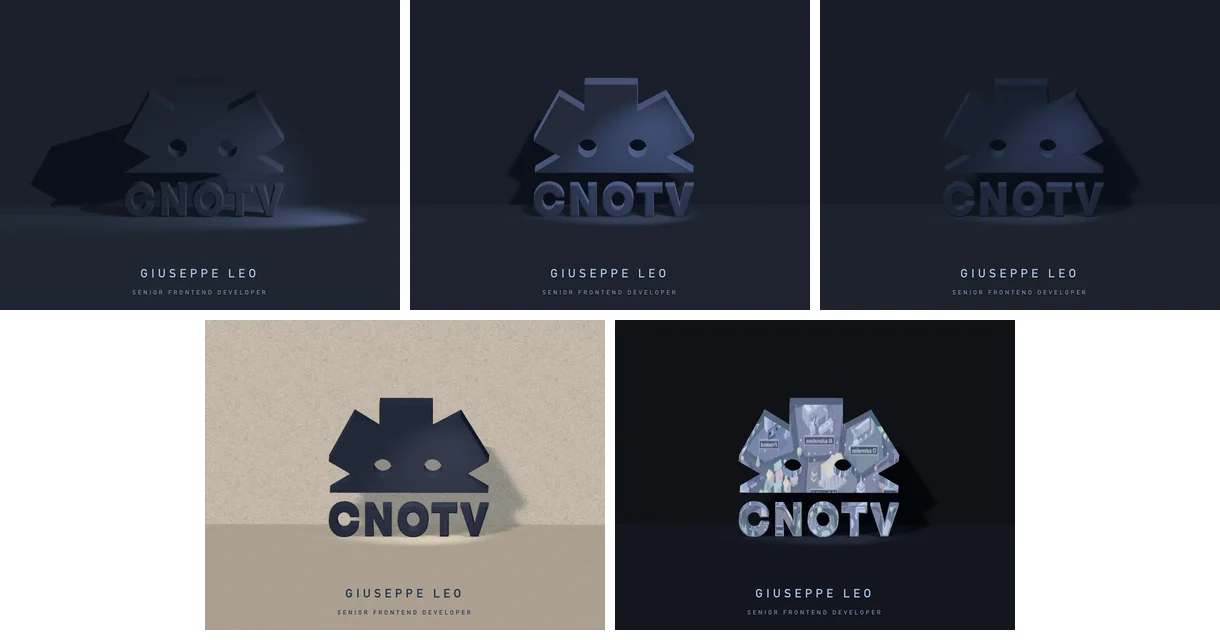
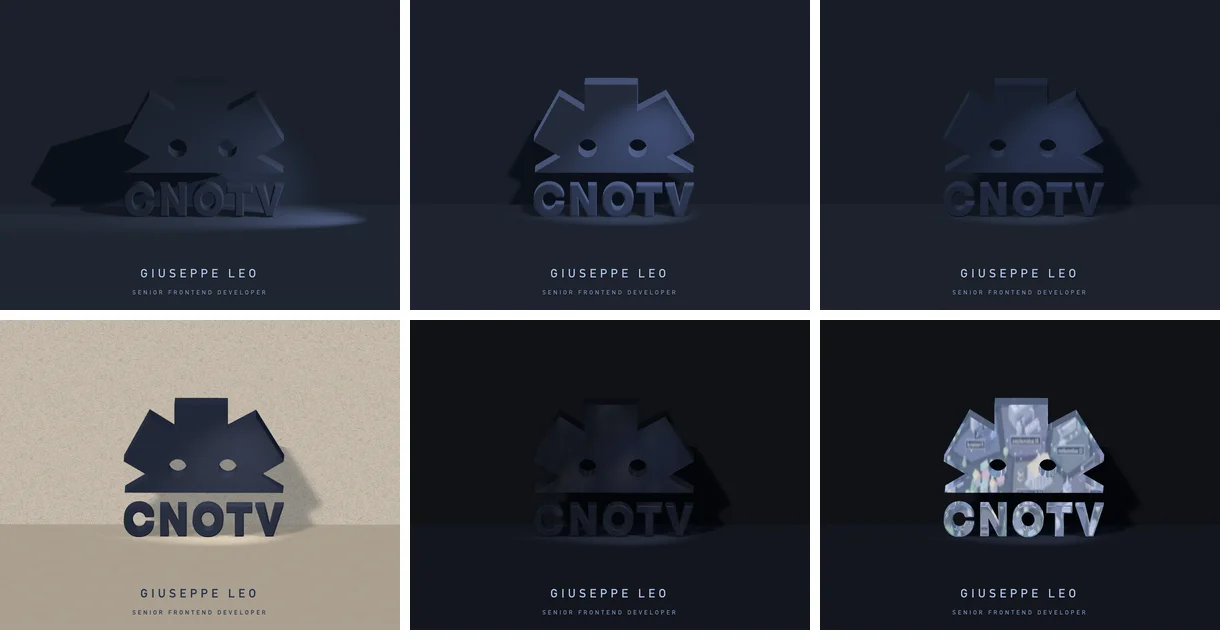
feat: tuned chrome preset, polished chrome kept, mipmap blur
Chrome takes the values tuned in the Elements panel: dark satin metal
with a faint, blurred reflection. The earlier mirror finish stays as
Polished chrome. The reflection blur now reads a smaller copy of each
frame from the video's mipmaps, smoothed with four close samples,
instead of a spiral of samples that looked grainy; the setting runs from
0 for a sharp mirror to 1 for the softest.

diff --git a/src/views/Experiments/LandingPage/introScene.ts b/src/views/Experiments/LandingPage/introScene.ts
@@ -19,7 +19,7 @@ import {
   RIM_LIGHT_POWER,
   REFLECTION_SPAN,
   REFLECTION_TILT,
-  REFLECTION_BLUR_TAPS
+  REFLECTION_BLUR_LEVELS
 } from './config'
 import type { LogoIntroPose, Room, LogoRest, SpotPlacement } from './types'
 
@@ -256,7 +256,7 @@ export interface CardShading {
   reflectionMap: THREE.IUniform<THREE.Texture | null>
   /** How far the reflection has swayed sideways, as a share of the footage. */
   reflectionShift: THREE.IUniform<number>
-  /** How far the reflection is blurred, as a share of the footage. */
+  /** How blurred the reflection is, from 0 for a sharp mirror to 1 for the softest. */
   reflectionBlur: THREE.IUniform<number>
 }
 
@@ -308,14 +308,15 @@ export const addCardShading = (material: THREE.MeshStandardMaterial): CardShadin
         // right, and shifted by its tilt so bevels and sides catch a different part of it.
         vec2 mirrorUv = vec2(0.5, 0.5) + vec2(vViewPosition.x, -vViewPosition.y) / ${REFLECTION_SPAN.toFixed(1)}
           + normal.xy * ${REFLECTION_TILT.toFixed(2)} + vec2(reflectionShift, 0.0);
-        // Blurred by averaging taps along a golden-angle spiral, spread as far as the blur asks.
-        vec3 reflected = vec3(0.0);
-        for (int tap = 0; tap < ${REFLECTION_BLUR_TAPS}; tap++) {
-          float spiral = float(tap) * 2.39996;
-          float reach = sqrt(float(tap) / ${REFLECTION_BLUR_TAPS}.0) * reflectionBlur;
-          reflected += texture2D(reflectionMap, mirrorUv + vec2(cos(spiral), sin(spiral)) * reach).rgb;
-        }
-        totalEmissiveRadiance += reflected / ${REFLECTION_BLUR_TAPS}.0 * reflectionStrength;`
+        // Blurred by reading a smaller copy of the frame from its mipmaps, smoothed with four taps
+        // half a texel of that copy apart, so it softens evenly instead of turning blocky.
+        float blurLevel = reflectionBlur * ${REFLECTION_BLUR_LEVELS.toFixed(1)};
+        vec2 spread = exp2(blurLevel) * 0.5 / vec2(textureSize(reflectionMap, 0));
+        vec3 reflected = textureLod(reflectionMap, mirrorUv + vec2(spread.x, spread.y), blurLevel).rgb
+          + textureLod(reflectionMap, mirrorUv + vec2(-spread.x, spread.y), blurLevel).rgb
+          + textureLod(reflectionMap, mirrorUv + vec2(spread.x, -spread.y), blurLevel).rgb
+          + textureLod(reflectionMap, mirrorUv + vec2(-spread.x, -spread.y), blurLevel).rgb;
+        totalEmissiveRadiance += reflected * 0.25 * reflectionStrength;`
       )
   }
   return shading

diff --git a/src/views/Experiments/LandingPage/config.ts b/src/views/Experiments/LandingPage/config.ts
@@ -73,7 +73,8 @@ export const RIM_LIGHT_POWER = 3
 /**
  * Every finish tried for the hero, picked from the Config panel or with ?look= in the address.
  * The original lighting, the first pass with a rim, navy cardstock with an embossed logo, a light
- * letterpress card with the logo in ink, and polished chrome mirroring the skills city.
+ * letterpress card with the logo in ink, dark satin chrome with a faint, blurred reflection of the
+ * skills city, and polished chrome mirroring it clearly.
  */
 export const HERO_LOOKS: Record<string, HeroLook> = {
   original: {
@@ -184,6 +185,32 @@ export const HERO_LOOKS: Record<string, HeroLook> = {
     label: 'Chrome',
     wallColor: 0x10151f,
     floorColor: 0x1a2030,
+    logoColor: 0x252b3d,
+    logoRoughness: 0.55,
+    logoMetalness: 1,
+    paper: false,
+    embossStrength: 0,
+    rimStrength: 0,
+    ambientIntensity: 0.6,
+    key: { color: 0xffffff, intensity: 0.8, position: [-4, 6, 10] },
+    spot: {
+      color: 0xc9d8ff,
+      intensity: 380,
+      side: 5,
+      height: 10,
+      forward: 7,
+      angle: 0.36,
+      penumbra: 1
+    },
+    shadowRadius: 8,
+    ink: false,
+    reflection: 0.02,
+    reflectionBlur: 0.5
+  },
+  polishedChrome: {
+    label: 'Polished chrome',
+    wallColor: 0x10151f,
+    floorColor: 0x1a2030,
     logoColor: 0xdfe4ec,
     logoRoughness: 0.12,
     logoMetalness: 1,
@@ -204,7 +231,7 @@ export const HERO_LOOKS: Record<string, HeroLook> = {
     shadowRadius: 8,
     ink: false,
     reflection: 0.9,
-    reflectionBlur: 0.006
+    reflectionBlur: 0.1
   }
 }
 export const DEFAULT_HERO_LOOK = 'cardstock'
@@ -216,8 +243,8 @@ export const REFLECTION_VIDEO = 'hero/skills-city-reflection.mp4'
  */
 export const REFLECTION_SPAN = 14
 export const REFLECTION_TILT = 0.25
-/** How many samples of the footage a blurred reflection averages. */
-export const REFLECTION_BLUR_TAPS = 12
+/** How many halvings of the footage's resolution the strongest reflection blur reaches. */
+export const REFLECTION_BLUR_LEVELS = 6
 /** The reflection sways slowly side to side: how far, as a share of the footage, and how fast. */
 export const REFLECTION_SWAY = 0.08
 export const REFLECTION_SWAY_SPEED = 0.25

diff --git a/src/views/Experiments/LandingPage/heroLook.ts b/src/views/Experiments/LandingPage/heroLook.ts
@@ -28,6 +28,9 @@ const createVideoReflection = (): VideoReflection => {
   video.playsInline = true
   const texture = new THREE.VideoTexture(video)
   texture.colorSpace = THREE.SRGBColorSpace
+  // Mipmaps are the shrunken copies of each frame that the reflection blur reads from.
+  texture.generateMipmaps = true
+  texture.minFilter = THREE.LinearMipmapLinearFilter
   return { video, texture }
 }
 
@@ -175,7 +178,7 @@ const logoSchema = {
   emboss: { min: 0, max: 2, step: 0.05, label: 'Emboss' },
   rim: { min: 0, max: 1, step: 0.01, label: 'Rim glow' },
   reflection: { min: 0, max: 3, step: 0.05, label: 'Reflection' },
-  reflectionBlur: { min: 0, max: 0.08, step: 0.002, label: 'Reflection blur' },
+  reflectionBlur: { min: 0, max: 1, step: 0.01, label: 'Reflection blur' },
   paper: { boolean: true, label: 'Paper' }
 }
 

diff --git a/src/views/Experiments/LandingPage/types.ts b/src/views/Experiments/LandingPage/types.ts
@@ -186,7 +186,7 @@ export interface HeroLook {
   ink: boolean
   /** How strongly the logo mirrors the looping video of the skills city; 0 for no reflection. */
   reflection: number
-  /** How far the reflection is blurred, as a share of the footage; 0 for a sharp mirror. */
+  /** How blurred the reflection is, from 0 for a sharp mirror to 1 for the softest. */
   reflectionBlur: number
 }
 

diff --git a/src/views/Experiments/LandingPage/heroLooks.test.ts b/src/views/Experiments/LandingPage/heroLooks.test.ts
@@ -14,7 +14,8 @@ describe('HERO_LOOKS', () => {
       'rim',
       'cardstock',
       'letterpress',
-      'chrome'
+      'chrome',
+      'polishedChrome'
     ])
   })
 })

diff --git a/documentation/docs/journey/homepage-sleeping-logo-and-skills-city.md b/documentation/docs/journey/homepage-sleeping-logo-and-skills-city.md
@@ -155,7 +155,8 @@ pixel of the screen.
 
 Each finish tried is kept as a preset, so they can be compared rather than remembered: the original
 lighting, the first pass with a rim, navy cardstock, a light letterpress card with the logo in navy
-ink, and polished chrome mirroring the skills city. A glossy take and a layered cut-paper look were tried too and dropped.
+ink, and two chromes reflecting the skills city: a dark satin one tuned by hand in the panel, with a
+faint blurred reflection, and a polished one that mirrors it clearly. A glossy take and a layered cut-paper look were tried too and dropped.
 The Config panel switches between them live, and an address such as `?look=letterpress` opens one
 directly. Everything a preset sets, the lights, the wall and floor, the logo's colour, emboss, rim
 and paper, is also listed in the Elements panel, so a preset is a starting point to tune by hand
@@ -168,7 +169,7 @@ control only when the value it reads is reactive, and a three.js material is not
 now reads a reactive copy of its values, updated on each edit and rebuilt on each preset switch.
 The logo and the letters share one material, so they share one set of controls too.
 
-![The five hero presets: original, rim light, navy cardstock, letterpress and chrome](/img/homepage/hero-looks.webp)
+![The six hero presets: original, rim light, navy cardstock, letterpress, chrome and polished chrome](/img/homepage/hero-looks.webp)
 
 A preset is plain data, one entry per look, and switching applies it to the scene as it stands:
 colours and lights change in place, and the paper texture is put on or taken off. The
@@ -178,7 +179,7 @@ text on cream would vanish.
 
 ### A chrome logo that mirrors the city
 
-![The chrome logo mirroring the skills city](/img/homepage/hero-chrome.webp)
+![The polished chrome logo mirroring the skills city](/img/homepage/hero-chrome.webp)
 
 The chrome preset reflects a short loop of the skills city, recorded from the page below and played
 forward then backward so it loops without a jump. The obvious route, the video as a reflection map
@@ -192,8 +193,10 @@ What works is closer to a real mirror in front of the scene: each face shows the
 place in the view, mirrored left to right, shifted by the face's tilt so the bevels and sides catch
 other parts of it. The city barely moves, so the reflection also sways slowly sideways, as if the
 logo caught a moving view. The video only plays while the chrome preset is on. A blur setting
-turns the mirror into brushed metal: the material averages a dozen samples of the footage along a
-spiral, spread as wide as the blur asks.
+turns the mirror into satin metal. Averaging a dozen samples along a spiral was tried first and
+looked grainy rather than blurred; the blur now reads a smaller copy of each frame from the video's
+mipmaps, the shrunken copies the GPU keeps of a texture, and smooths it with four close samples, so
+it softens evenly at any strength.
 
 ## The city of skills
 
